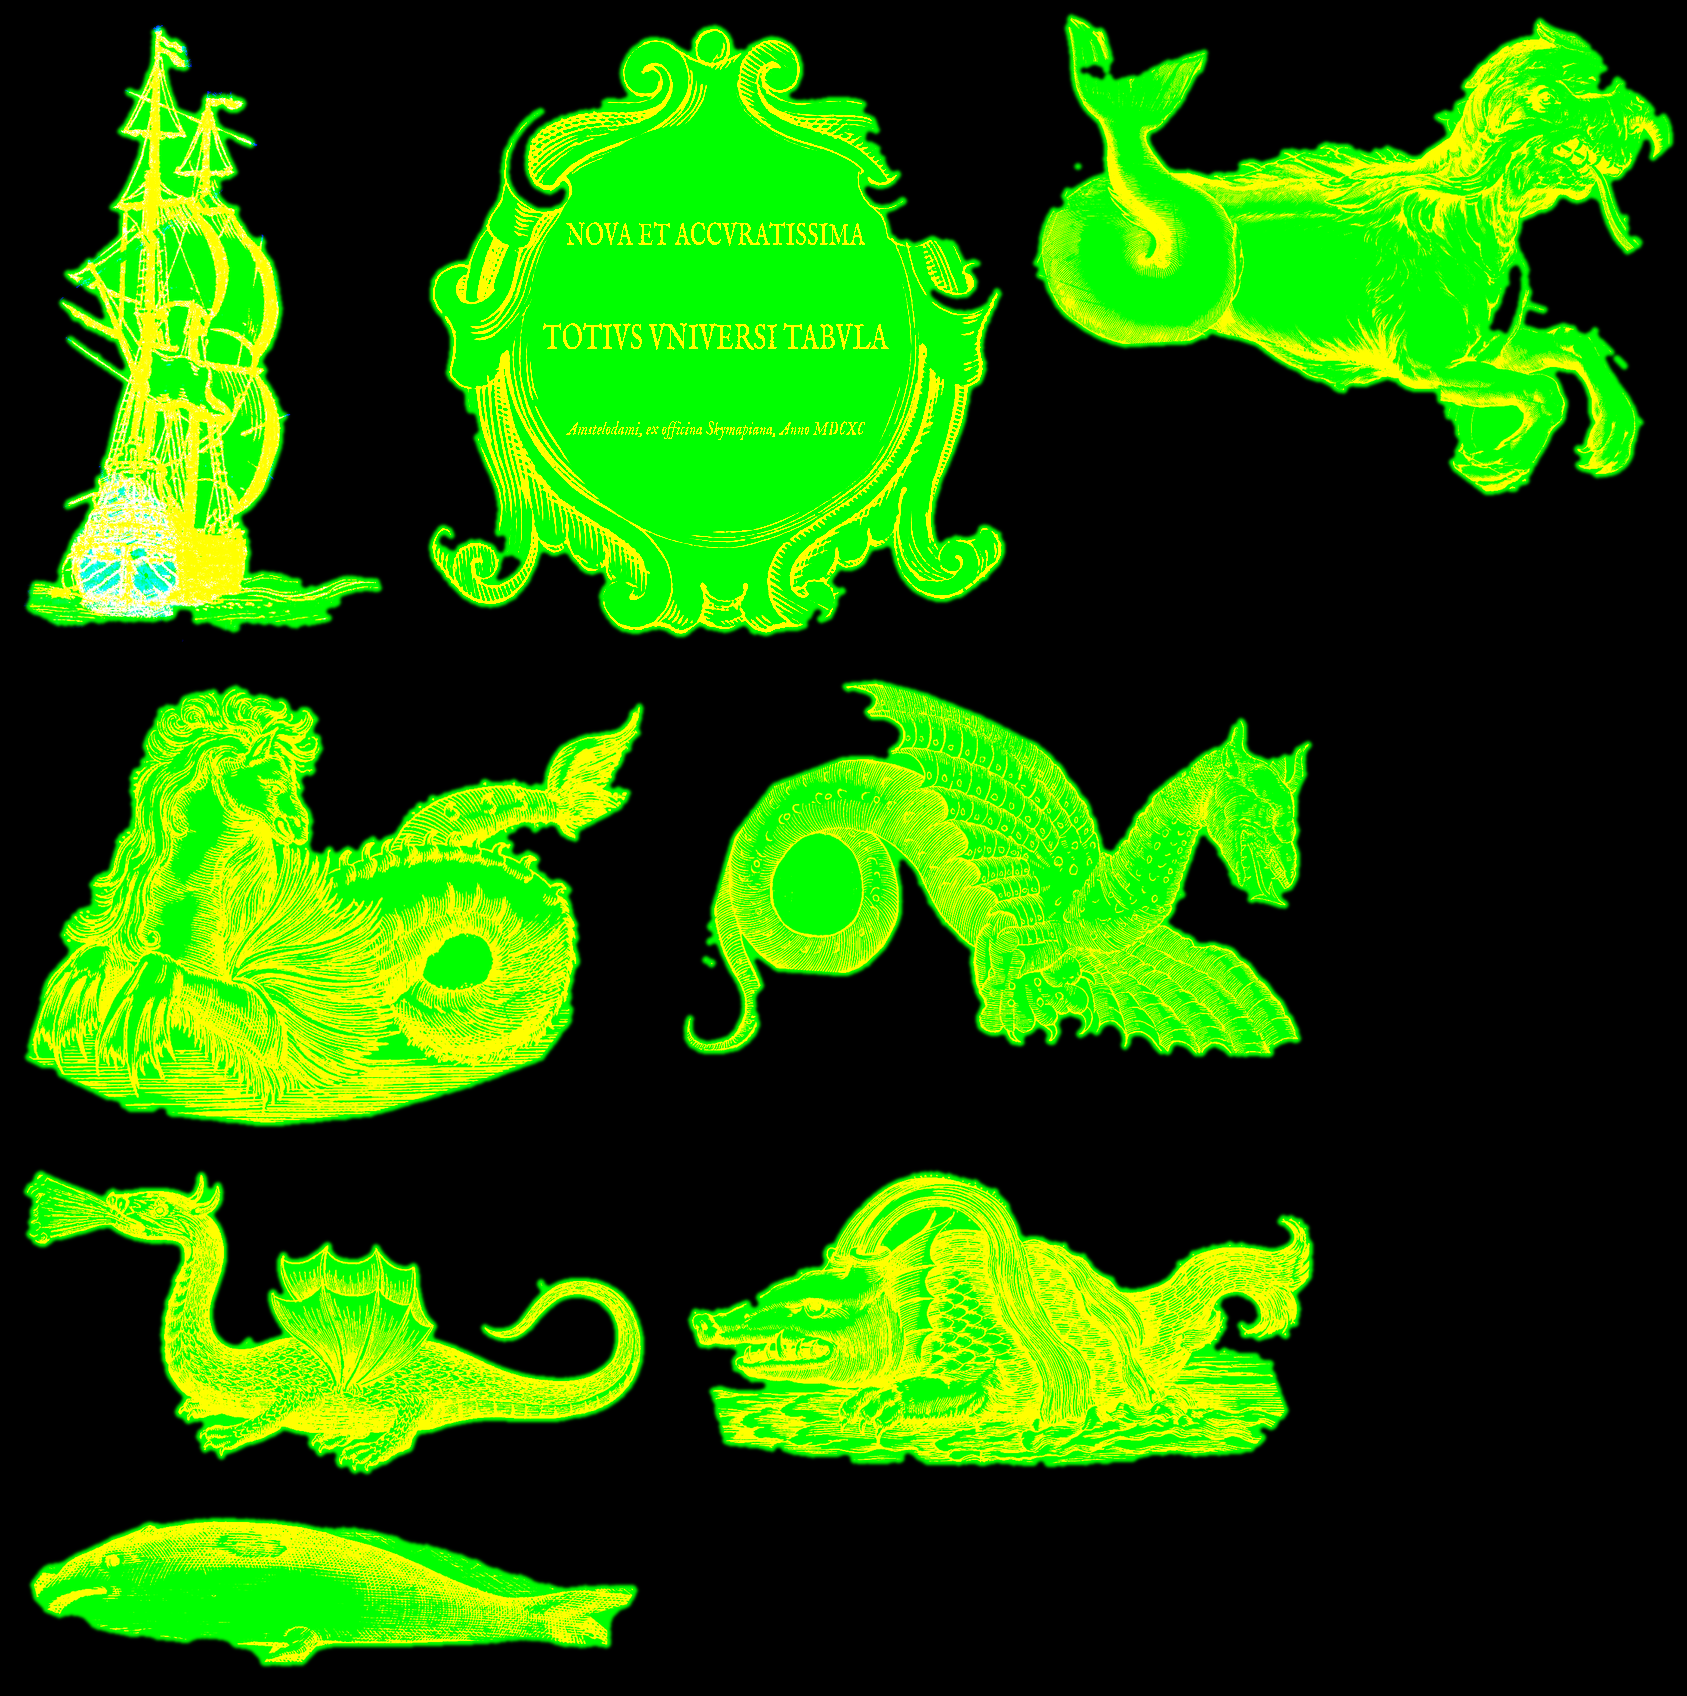
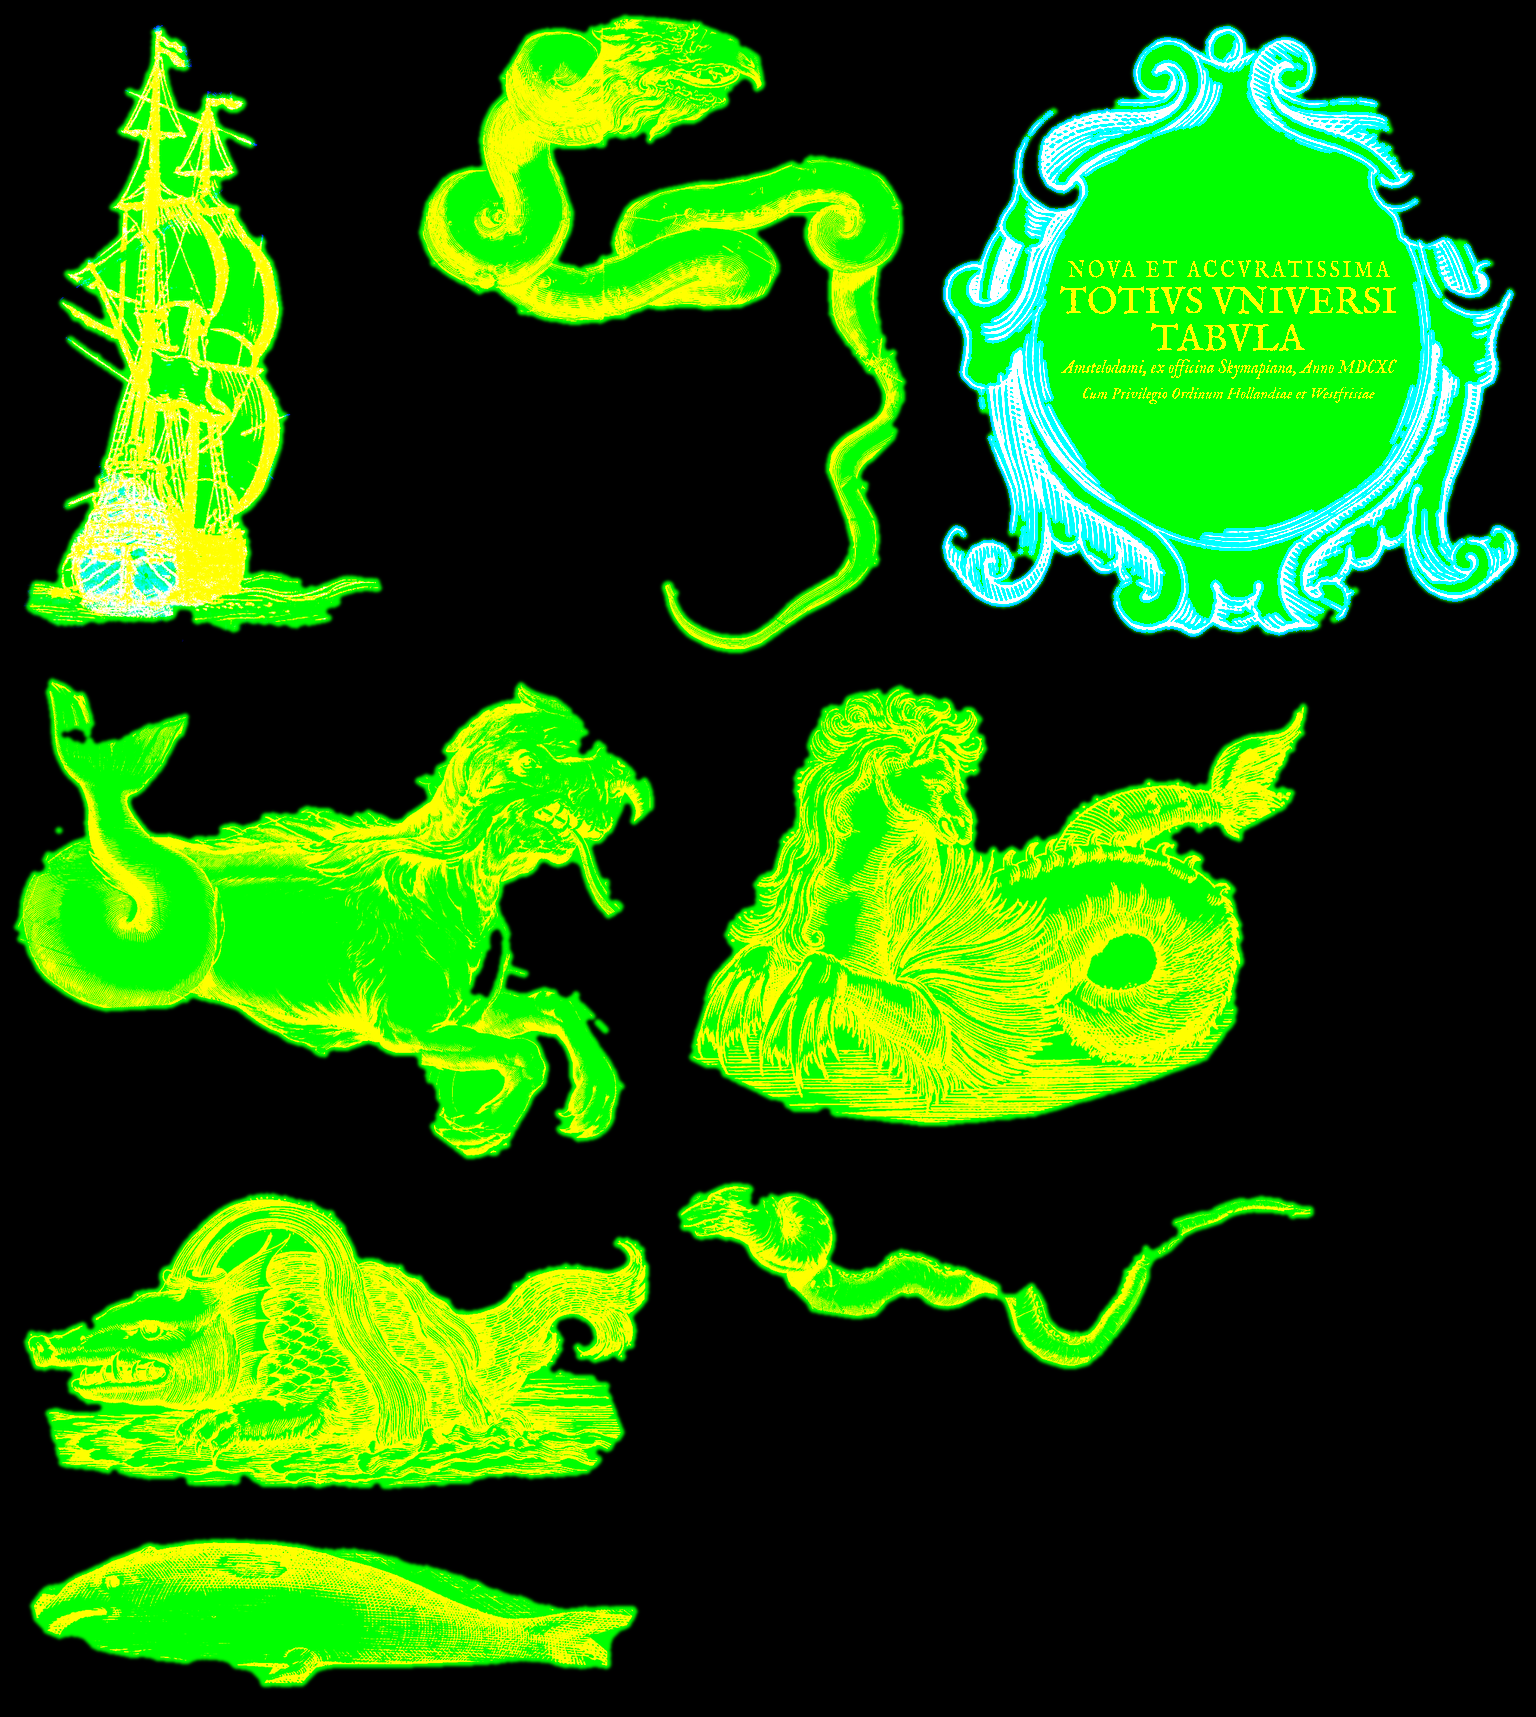
Antique look: Hevelius Draco and Hydra, fuller cartouche title, frame-only wash
dragon and seaSerpent are now Hevelius' 1690 Draco and Hydra (stars
inpainted), replacing Kircher and Aldrovandi. The cartouche title gains
a hierarchy: letter-spaced NOVA ET ACCVRATISSIMA, TOTIVS VNIVERSI TABVLA
at 1.6x its caps, the italic imprint and a new italic privilege line,
with tight leading. Each group may break into lines; the packer keeps
the combination that lets the block grow largest inside the interior.
The cartouche's wash is its strapwork grown 3 px, never the field, so
the colourist's tint sits on the frame and the title's ground stays
paper.

diff --git a/tools/antique/packOrnaments.ts b/tools/antique/packOrnaments.ts
@@ -3,7 +3,8 @@
  * packOrnaments (`npm run pack-ornaments`) — packs the antique look's engraved
  * ornaments into `public/antique/ornaments.png` and generates its layout module.
  * Channels: R ink density, G fill (the solid silhouette the plate is cleared to
- * paper under), B wash (the alpha of `<id>.colour.png` when a sprite has one).
+ * paper under), B wash (the alpha of `<id>.colour.png` when a sprite has one;
+ * the cartouche's frame).
  * Inputs: data/antique/sprites/<id>.png (black RGB, ink in alpha), optional
  * <id>.colour.png (RGB hue, alpha saturation), the IM Fell TTFs in the raw
  * fonts dir (shared with the label atlases); provenance in data/antique/PROVENANCE.md.
@@ -25,6 +26,9 @@ import { gaussianBlurFloat32 } from '../utils/image/gaussianBlurFloat32';
 import { rawDataPath } from '../utils/io/rawDataRegistry';
 import { shelfPack } from '../utils/image/shelfPack';
 import type { OrnamentSprite } from './@types/OrnamentSprite';
+import type { PlacedTitleLine } from './@types/PlacedTitleLine';
+import type { TitleGroup } from './@types/TitleGroup';
+import type { TitleLine } from './@types/TitleLine';
 
 const SPRITE_IDS = [
   'cartouche',
@@ -64,22 +68,47 @@ const CARTOUCHE_OVAL = { cx: 0.504, cy: 0.502, rx: 0.318, ry: 0.31 } as const;
 const ROMAN = 'IMFellEnglish-Regular.ttf';
 const ITALIC = 'IMFellEnglish-Italic.ttf';
 /**
- * `capOfRy` is the cap height as a fraction of the oval's half-height. The oval
- * is too narrow for caps that size at the face's own width, so a line may be
- * condensed down to `minSqueeze` before it shrinks, as engravers cut it.
+ * The title block, top to bottom: each group's style and the ways its text may
+ * break into lines. `cap` is cap height relative to the first group, `tracking`
+ * letter-spacing in em. A line too wide for the interior's chord is condensed to
+ * `minSqueeze` before the block shrinks, as engravers cut it; of every
+ * combination of breaks the packer keeps the one that lets the block grow largest.
  */
-const TITLE_LINES = [
-  { text: 'NOVA ET ACCVRATISSIMA', file: ROMAN, dy: -0.5, capOfRy: 0.19, minSqueeze: 0.72 },
-  { text: 'TOTIVS VNIVERSI TABVLA', file: ROMAN, dy: 0.02, capOfRy: 0.26, minSqueeze: 0.72 },
+const TITLE_GROUPS: readonly TitleGroup[] = [
   {
-    text: 'Amstelodami, ex officina Skymapiana, Anno MDCXC',
-    file: ITALIC,
-    dy: 0.5,
-    capOfRy: 0.15,
-    minSqueeze: 0.8,
+    style: { file: ROMAN, cap: 1, tracking: 0.14, minSqueeze: 0.85 },
+    breaks: [['NOVA ET ACCVRATISSIMA']],
   },
-] as const;
-/** Fraction of the oval's chord a title line may span: keeps it inside the rule. */
+  {
+    style: { file: ROMAN, cap: 1.6, tracking: 0, minSqueeze: 0.72 },
+    breaks: [['TOTIVS VNIVERSI TABVLA'], ['TOTIVS VNIVERSI', 'TABVLA']],
+  },
+  {
+    style: { file: ITALIC, cap: 0.85, tracking: 0, minSqueeze: 0.85 },
+    breaks: [
+      ['Amstelodami, ex officina Skymapiana, Anno MDCXC'],
+      ['Amstelodami, ex officina Skymapiana,', 'Anno MDCXC'],
+    ],
+  },
+  {
+    style: { file: ITALIC, cap: 0.7, tracking: 0, minSqueeze: 0.85 },
+    breaks: [
+      ['Cum Privilegio Ordinum Hollandiae et Westfrisiae'],
+      ['Cum Privilegio Ordinum', 'Hollandiae et Westfrisiae'],
+    ],
+  },
+];
+const TITLE_LAYOUTS: readonly (readonly TitleLine[])[] = TITLE_GROUPS.reduce<TitleLine[][]>(
+  (layouts, { style, breaks }) =>
+    layouts.flatMap((head) =>
+      breaks.map((texts) => [...head, ...texts.map((text) => ({ ...style, text }))]),
+    ),
+  [[]],
+);
+/** Share of the interior's height the title block may fill, and its leading in first-line caps. */
+const TITLE_HEIGHT_FILL = 0.7;
+const TITLE_LEADING = 0.5;
+/** Fraction of the interior's chord a title line may span: keeps it inside the rule. */
 const TITLE_CHORD_FILL = 0.92;
 /** Ink-density band pushed to paper/ink, so scanned greys read as engraved lines. */
 const INK_PUSH = [0.3, 0.65] as const;
@@ -122,7 +151,42 @@ function insideOval(x: number, y: number, w: number, h: number, scale: number): 
   return u * u + v * v <= 1;
 }
 
-/** Engraves the title into `ink` inside the oval, erasing the source's specks first. */
+/**
+ * Lays one title layout out at first-line cap height `c1` px: each line's em
+ * size, condensing, and top edge (block centred on the interior). `undefined`
+ * when the block is taller than its share or a line will not fit its chord.
+ */
+function layTitle(
+  layout: readonly TitleLine[],
+  faces: ReadonlyMap<string, Font>,
+  c1: number,
+  rx: number,
+  ry: number,
+): PlacedTitleLine[] | undefined {
+  const metrics = layout.map((line) => {
+    const face = faces.get(line.file)!;
+    const cap = face.getPath('H', 0, 0, 1).getBoundingBox();
+    const box = face.getPath(line.text, 0, 0, 1, { letterSpacing: line.tracking }).getBoundingBox();
+    const em = (line.cap * c1) / (cap.y2 - cap.y1);
+    return { line, em, width: (box.x2 - box.x1) * em, height: (box.y2 - box.y1) * em };
+  });
+  const gap = TITLE_LEADING * c1;
+  const total = metrics.reduce((sum, m) => sum + m.height, 0) + gap * (metrics.length - 1);
+  if (total > TITLE_HEIGHT_FILL * 2 * ry) return undefined;
+  let top = -total / 2;
+  const placed: PlacedTitleLine[] = [];
+  for (const m of metrics) {
+    const far = Math.max(Math.abs(top), Math.abs(top + m.height)) / ry;
+    const chord = 2 * rx * Math.sqrt(Math.max(0, 1 - far * far)) * TITLE_CHORD_FILL;
+    const squeeze = Math.min(1, chord / m.width);
+    if (squeeze < m.line.minSqueeze) return undefined;
+    placed.push({ line: m.line, em: m.em, squeeze, top });
+    top += m.height + gap;
+  }
+  return placed;
+}
+
+/** Engraves the largest-fitting title into `ink` inside the interior, erasing specks first. */
 async function engraveTitle(ink: Uint8Array, w: number, h: number): Promise<void> {
   for (let y = 0; y < h; y++)
     for (let x = 0; x < w; x++) if (insideOval(x, y, w, h, 0.95)) ink[y * w + x] = 0;
@@ -130,22 +194,29 @@ async function engraveTitle(ink: Uint8Array, w: number, h: number): Promise<void
   const ih = h - 2 * PAD_PX;
   const rx = CARTOUCHE_OVAL.rx * iw;
   const ry = CARTOUCHE_OVAL.ry * ih;
-  for (const line of TITLE_LINES) {
-    const face = parse(
-      new Uint8Array(readFileSync(join(rawDataPath('fonts.dir'), line.file))).buffer,
-    );
-    const chord = 2 * rx * Math.sqrt(1 - line.dy * line.dy) * TITLE_CHORD_FILL;
-    const cap = face.getPath('H', 0, 0, 1).getBoundingBox();
-    const { x1, x2 } = face.getPath(line.text, 0, 0, 1).getBoundingBox();
-    let sizePx = (line.capOfRy * ry) / (cap.y2 - cap.y1);
-    let squeeze = Math.min(1, chord / ((x2 - x1) * sizePx));
-    if (squeeze < line.minSqueeze) {
-      squeeze = line.minSqueeze;
-      sizePx = chord / ((x2 - x1) * squeeze);
+  const faces = new Map(
+    [ROMAN, ITALIC].map((file) => [
+      file,
+      parse(new Uint8Array(readFileSync(join(rawDataPath('fonts.dir'), file))).buffer),
+    ]),
+  );
+  let best: { c1: number; lines: PlacedTitleLine[] } | undefined;
+  for (const layout of TITLE_LAYOUTS) {
+    let lo = 0;
+    let hi = ry;
+    for (let k = 0; k < 30; k++) {
+      const mid = (lo + hi) / 2;
+      if (layTitle(layout, faces, mid, rx, ry)) lo = mid;
+      else hi = mid;
     }
-    const glyphs = await rasterizeLine(face, line.text, sizePx, squeeze);
+    const lines = layTitle(layout, faces, lo, rx, ry);
+    if (lines && (!best || lo > best.c1)) best = { c1: lo, lines };
+  }
+  if (!best) throw new Error('packOrnaments: the title does not fit the cartouche');
+  for (const { line, em, squeeze, top } of best.lines) {
+    const glyphs = await rasterizeLine(faces.get(line.file)!, line, em, squeeze);
     const x0 = Math.round(PAD_PX + CARTOUCHE_OVAL.cx * iw - glyphs.width / 2);
-    const y0 = Math.round(PAD_PX + CARTOUCHE_OVAL.cy * ih + line.dy * ry - glyphs.height / 2);
+    const y0 = Math.round(PAD_PX + CARTOUCHE_OVAL.cy * ih + top);
     for (let y = 0; y < glyphs.height; y++)
       for (let x = 0; x < glyphs.width; x++) {
         const i = (y0 + y) * w + x0 + x;
@@ -155,18 +226,18 @@ async function engraveTitle(ink: Uint8Array, w: number, h: number): Promise<void
 }
 
 /**
- * One line of text as two-level ink (engraved, no grey), `sizePx` the em size,
+ * One title line as two-level ink (engraved, no grey), `sizePx` the em size,
  * condensed by `squeeze`, cropped to its ink box. Drawn from the font's outlines
  * rather than sharp's `text` input: on macOS that goes through CoreText, which
  * ignores `fontfile` and falls back to sans.
  */
 async function rasterizeLine(
   face: Font,
-  text: string,
+  line: TitleLine,
   sizePx: number,
   squeeze: number,
 ): Promise<GreyRaster> {
-  const path = face.getPath(text, 0, 0, sizePx);
+  const path = face.getPath(line.text, 0, 0, sizePx, { letterSpacing: line.tracking });
   const { x1, y1, x2, y2 } = path.getBoundingBox();
   const width = Math.ceil((x2 - x1) * squeeze);
   const height = Math.ceil(y2 - y1);
@@ -200,10 +271,24 @@ async function buildSprite(id: (typeof SPRITE_IDS)[number]): Promise<OrnamentSpr
   const grown = dilateMaskDisc(solid, w, h, FILL_GROW_PX);
   const soft = gaussianBlurFloat32(Float32Array.from(grown), w, h, FILL_BLUR_SIGMA_PX);
   const fill = Uint8Array.from(soft, (v) => Math.round(Math.min(1, v) * 255));
-  const wash = existsSync(spritePath(`${id}.colour`))
-    ? (await loadInk(`${id}.colour`, false)).data
-    : new Uint8Array(w * h);
+  const wash =
+    id === 'cartouche'
+      ? frameWash(ink, w, h)
+      : existsSync(spritePath(`${id}.colour`))
+        ? (await loadInk(`${id}.colour`, false)).data
+        : new Uint8Array(w * h);
   return { ink, fill, wash, w, h };
+}
+
+/**
+ * The cartouche's wash: its strapwork, grown 3 px, and never the field inside,
+ * so the colourist's tint sits on the frame and the title's ground stays paper.
+ */
+function frameWash(ink: Uint8Array, w: number, h: number): Uint8Array {
+  const frame = ink.map((v) => (v > INK_THRESHOLD ? 1 : 0));
+  for (let y = 0; y < h; y++)
+    for (let x = 0; x < w; x++) if (insideOval(x, y, w, h, 1)) frame[y * w + x] = 0;
+  return dilateMaskDisc(frame, w, h, FILL_GROW_PX).map((v) => v * 255);
 }
 
 /** The narrowest-square packing under the size cap. */

diff --git a/src/data/rendering/antiqueOrnamentAtlas.ts b/src/data/rendering/antiqueOrnamentAtlas.ts
@@ -7,16 +7,16 @@
 import type { AntiqueOrnamentAtlas } from '../../@types/rendering/AntiqueOrnamentAtlas';
 
 export const ANTIQUE_ORNAMENT_ATLAS: AntiqueOrnamentAtlas = {
-  width: 1687,
-  height: 1696,
+  width: 1536,
+  height: 1717,
   sprites: {
-    cartouche: { x: 408, y: 4, w: 611, h: 654 },
-    cetus: { x: 1023, y: 4, w: 660, h: 501 },
+    cartouche: { x: 921, y: 4, w: 611, h: 654 },
+    cetus: { x: 4, y: 668, w: 660, h: 501 },
     ship: { x: 4, y: 4, w: 400, h: 660 },
-    whale: { x: 4, y: 1492, w: 660, h: 200 },
-    dragon: { x: 4, y: 1151, w: 660, h: 337 },
-    seaSerpent: { x: 668, y: 668, w: 660, h: 398 },
-    seaMonster: { x: 668, y: 1151, w: 660, h: 336 },
-    seaHorse: { x: 4, y: 668, w: 660, h: 479 },
+    whale: { x: 4, y: 1513, w: 660, h: 200 },
+    dragon: { x: 408, y: 4, w: 509, h: 660 },
+    seaSerpent: { x: 668, y: 1173, w: 660, h: 206 },
+    seaMonster: { x: 4, y: 1173, w: 660, h: 336 },
+    seaHorse: { x: 668, y: 668, w: 660, h: 479 },
   },
 };

diff --git a/tools/vendor-types/opentype.js.d.ts b/tools/vendor-types/opentype.js.d.ts
@@ -8,6 +8,14 @@ declare module 'opentype.js' {
     toPathData(decimalPlaces?: number): string;
     getBoundingBox(): { x1: number; y1: number; x2: number; y2: number };
   };
-  export type Font = { getPath(text: string, x: number, y: number, fontSize: number): Path };
+  export type Font = {
+    getPath(
+      text: string,
+      x: number,
+      y: number,
+      fontSize: number,
+      options?: { letterSpacing?: number },
+    ): Path;
+  };
   export function parse(buffer: ArrayBuffer): Font;
 }

diff --git a/tools/antique/@types/PlacedTitleLine.d.ts b/tools/antique/@types/PlacedTitleLine.d.ts
@@ -1,0 +1,9 @@
+import type { TitleLine } from './TitleLine';
+
+/** A title line laid out: em size and condensing in px terms, top edge relative to the interior's centre. */
+export type PlacedTitleLine = {
+  readonly line: TitleLine;
+  readonly em: number;
+  readonly squeeze: number;
+  readonly top: number;
+};

diff --git a/tools/antique/@types/TitleGroup.d.ts b/tools/antique/@types/TitleGroup.d.ts
@@ -1,0 +1,7 @@
+import type { TitleLine } from './TitleLine';
+
+/** One group of the cartouche title: a shared style and the ways its text may break into lines. */
+export type TitleGroup = {
+  readonly style: Omit<TitleLine, 'text'>;
+  readonly breaks: readonly (readonly string[])[];
+};

diff --git a/tools/antique/@types/TitleLine.d.ts b/tools/antique/@types/TitleLine.d.ts
@@ -1,0 +1,8 @@
+/** One line of the cartouche title: cap height relative to the first line, tracking in em. */
+export type TitleLine = {
+  readonly text: string;
+  readonly file: string;
+  readonly cap: number;
+  readonly tracking: number;
+  readonly minSqueeze: number;
+};

diff --git a/data/antique/PROVENANCE.md b/data/antique/PROVENANCE.md
@@ -17,8 +17,8 @@ applies.
 | cetus | _Firmamentum Sobiescianum sive Uranographia_, plate Cetus | Johannes Hevelius (1611–1687) | 1690 | [link](<https://commons.wikimedia.org/wiki/File:Cetus_(Uranographia_Hevelius).jpg>) | Public domain (author died >70 y; e-rara scan) | 4716×3537 (orig.) | [688, 98, 4278, 2827] |
 | seaMonster | _Islandia_ (Theatrum Orbis Terrarum) | Abraham Ortelius (1527–1598) | c. 1590 (BnF dates it 1587) | [link](<https://commons.wikimedia.org/wiki/File:Islandia_-_(Ortelius_Abraham)_-_btv1b10678483d.jpg>) | Public domain (PD France / PD-US expired), BnF Gallica scan | 6424×4640 (orig.) | [1753, 3711, 2844, 4249] |
 | seaHorse | same (Hroshvalur) | same | same | same | same | same | [1197, 3078, 2044, 3685] |
-| dragon | _Mundus Subterraneus_, winged dragon | Athanasius Kircher (1602–1680); Commons tags the attribution "Kircher?" | 1665 | [link](<https://commons.wikimedia.org/wiki/File:Kircher,_Athanasius_%E2%80%94_Mundus_Subterraneus_%E2%80%94_Winged_dragon_(on_the_ground)_%E2%80%94_1665.jpg>) | PD-Art (PD-old-100) | 1282×614 (orig.) | [8, 5, 1237, 614] |
-| seaSerpent | _Serpentum et Draconum Historiae_, "Draconis alati figura ex Pareo" | Ulisse Aldrovandi (1522–1605), ed. Bartolomeo Ambrosini (d. 1657) | 1640 | [link](https://commons.wikimedia.org/wiki/File:Ulyssis_Aldrovandi_BHL41765473.jpg) | PD-scan (PD-old-70-expired), Biodiversity Heritage Library | 4624×2933 (orig.) | [325, 506, 4389, 2908] |
+| dragon | _Firmamentum Sobiescianum sive Uranographia_ (bound with _Prodromus astronomiae_), Fig. B, Draco | Johannes Hevelius (1611–1687) | 1690 | [link](<https://commons.wikimedia.org/wiki/File:Draco_Hevelius_-_Prodromus_astronomiae_1690_(5590223).jpg>) | PD-old-100-expired, Polona (National Library of Poland) scan | 4400×3474 (orig.) | [1359, 438, 3582, 3346] |
+| seaSerpent | same atlas, Fig. TT, Hydra (uncoloured copy) | same | 1690 | [link](<https://commons.wikimedia.org/wiki/File:Hydra_-_Prodromus_astronomiae_1690_(436340).jpg>) | PD-old-100-expired, Polona scan | 4435×3495 (orig.) | [44, 441, 4442, 1739] |
 
 The cartouche's title is engraved at pack time in IM FELL English (`data/raw/fonts/`, © Igino Marini, SIL Open
 Font License 1.1, `data/raw/fonts/OFL-IMFell.txt`).
@@ -35,6 +35,10 @@ long side.
   whose surrounding ring matched best (a small exemplar inpaint), and the leftover chart arcs and a
   stray letter are erased. The figure keeps the source orientation, Hevelius' globe view; the
   renderer mirrors it.
+- **dragon, seaSerpent:** the same pipeline as cetus, with 35 and 36 star symbols inpainted from
+  nearby body hatching (inked donors only, so no blank paper discs). The chart lines are removed per
+  half of the plate, because the two sheets of each plate are offset at the gutter. Neither figure
+  is mirrored.
 - **ship:** Goos labels no ship type; it is a typical Dutch three-masted merchantman of the 1660s,
   seen from the stern. The colour layer carries the washes: brown hull, green sea.
 
@@ -45,4 +49,8 @@ long side.
 - ship: a faint grey sea wash remains around the waterline.
 - cetus: there are faint patches where the stars were inpainted, and a dashed remnant of the colure
   line remains on the neck.
-- dragon: the source is only 1282 px wide, so the line detail is softer than the rest.
+- dragon, seaSerpent: both keep the plate's gutter seam (a vertical break in the hatching through
+  Draco's head and coils), a few Bayer letters and soft inpaint patches.
+- dragon: the tail near α has a short ragged stretch where a degree-scale circle crossed it.
+- seaSerpent: two short gaps in the body, where Hevelius drew Crater's foot and Corvus's claws over
+  the serpent and both were removed.
